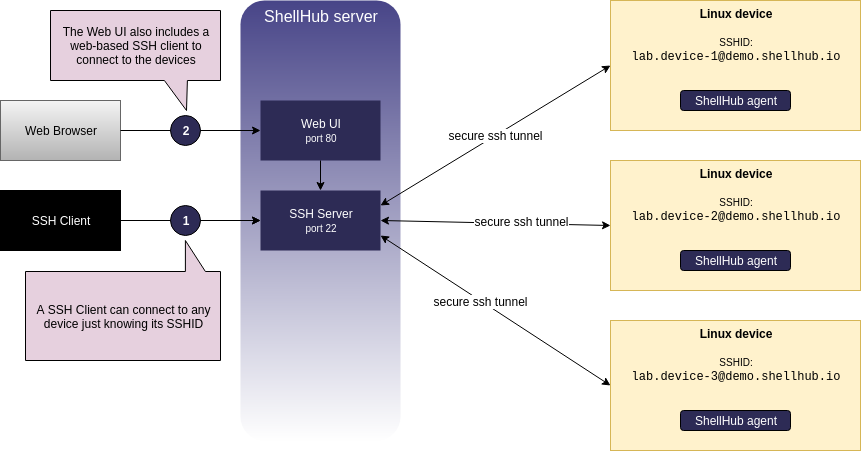
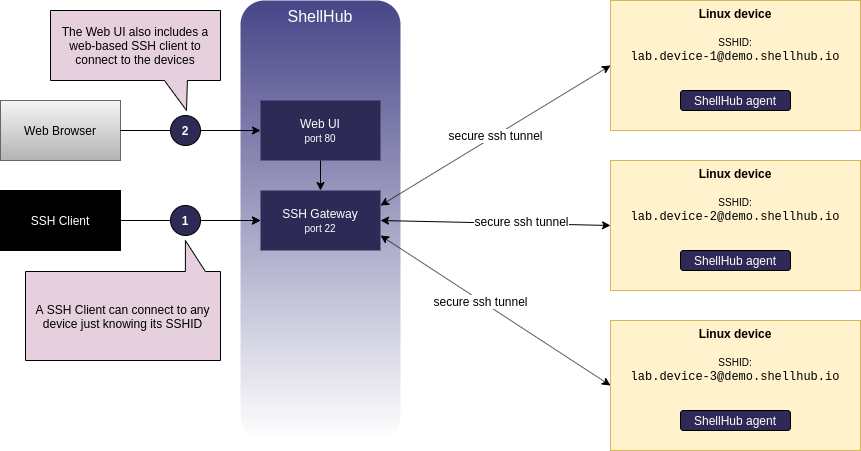
introduction: rework

diff --git a/docs/introduction.md b/docs/introduction.md
@@ -2,43 +2,35 @@
 
 This introduction section is intended to give a high-level overview of the ShellHub.
 
-The ShellHub is composed of two major parts, the **SSH Gateway** and the **Device Agent**.
-These parts work together to provide a secure SSH connection across the network
-to Linux-based devices.
-
-## Architecture
-
 ![Diagram](img/diagram.png)
-
-## Basic concepts
 
 There are few basic concepts that are important to understand the ShellHub.
 Those basic concepts are detailed below:
 
-### SSH Gateway
+## SSH gateway
 
-The ShellHub SSH gateway is a modern SSH server built using the microservices
-design pattern, meaning that multiple small, isolated services make up the server.
-It must be installed on any cloud provider like Azure, Google, AWS or DigitalOcean.
+The SSH gateway is a modern SSH server which forward connections to the devices
+running ShellHub's agent.
 
-### Device Agent
+## Device
 
-The ShellHub device agent which must be installed on the device.
+An internet-connected device, such as a computer or something more specific like a single-board computer, running ShellHub's agent.
 
-This guide is for those looking for a deeper understanding of ShellHub.
+## Agent
 
-### SSHID
+ShellHub's agent which must be installed on the device.
 
-SSHID is a unique address to identify a device in ShellHub SSH gateway.
+## SSHID
 
-SSHID consist of following format:
+SSHID is a unique address to identify a device in the SSH gateway, which must
+be specified in the following format:
 
     <NAMESPACE>.<DEVICE_NAME>@<GATEWAY_ADDRESS>
 
 Where:
 
-1. `<NAMESPACE>`: the account namespace identifier
-2. `<DEVICE_NAME>`: the device name identifier
-3. `<GATEWAY_ADDRESS>`: the gateway address identifier
+* `<NAMESPACE>`: Is the account namespace identifier
+* `<DEVICE_NAME>`: Is the device name identifier
+* `<GATEWAY_ADDRESS>`: Is the gateway address identifier
 
-Example of SSHID: `lab.rasp-1@localhost`
+!!! info "Example of SSHID: `lab.rasp-1@localhost`"
